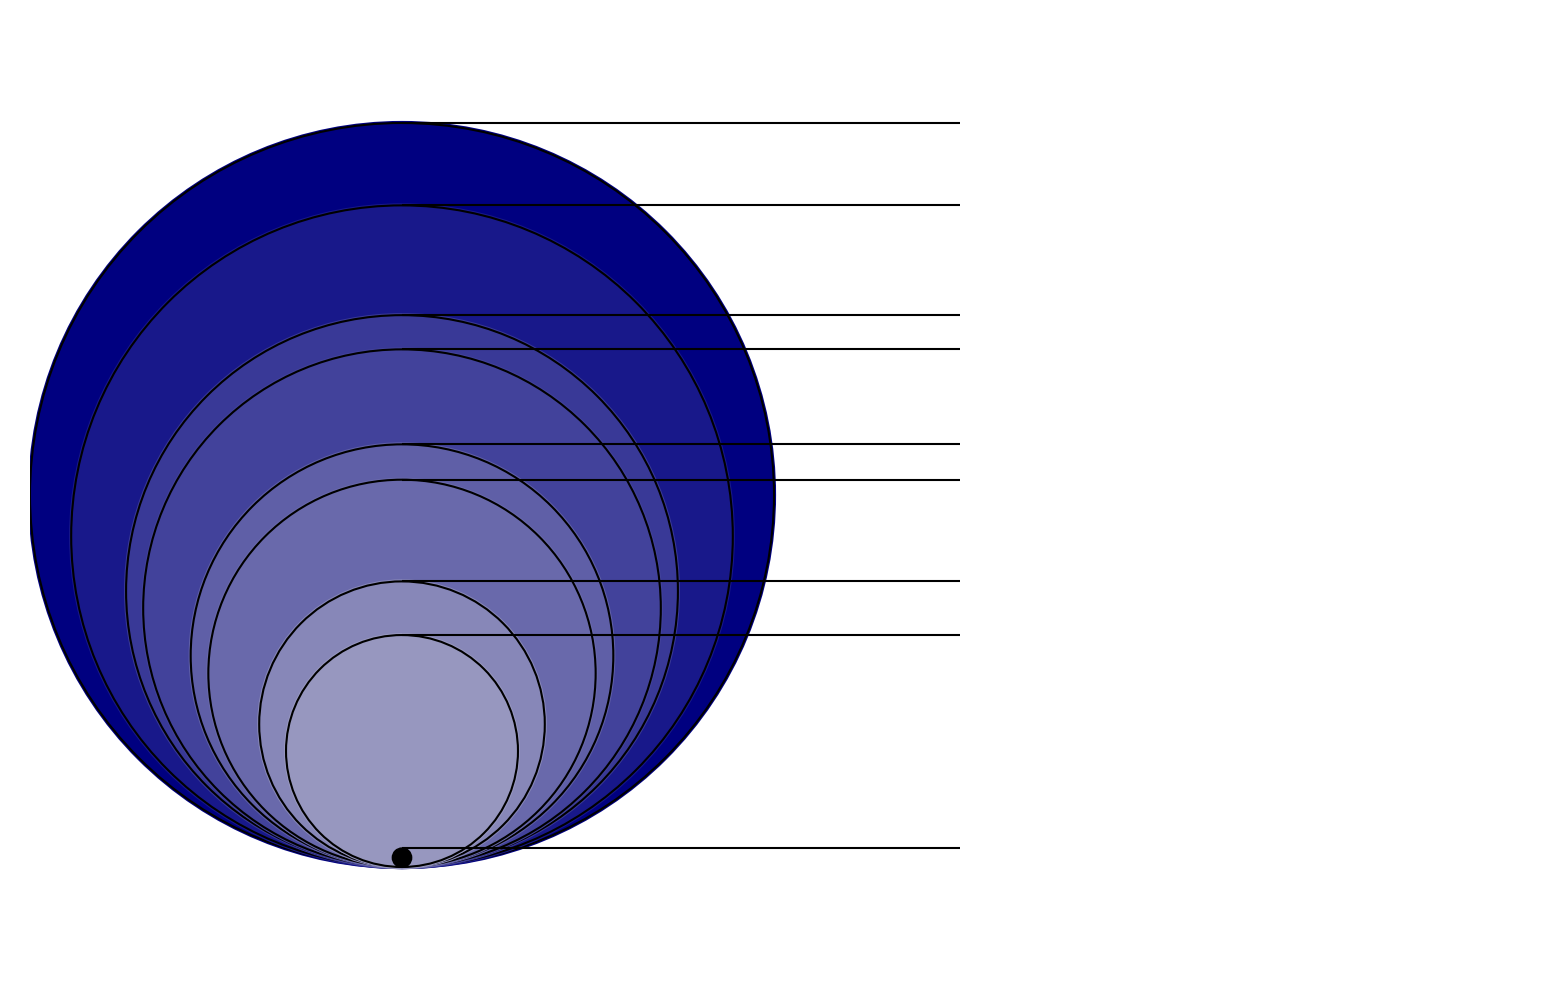
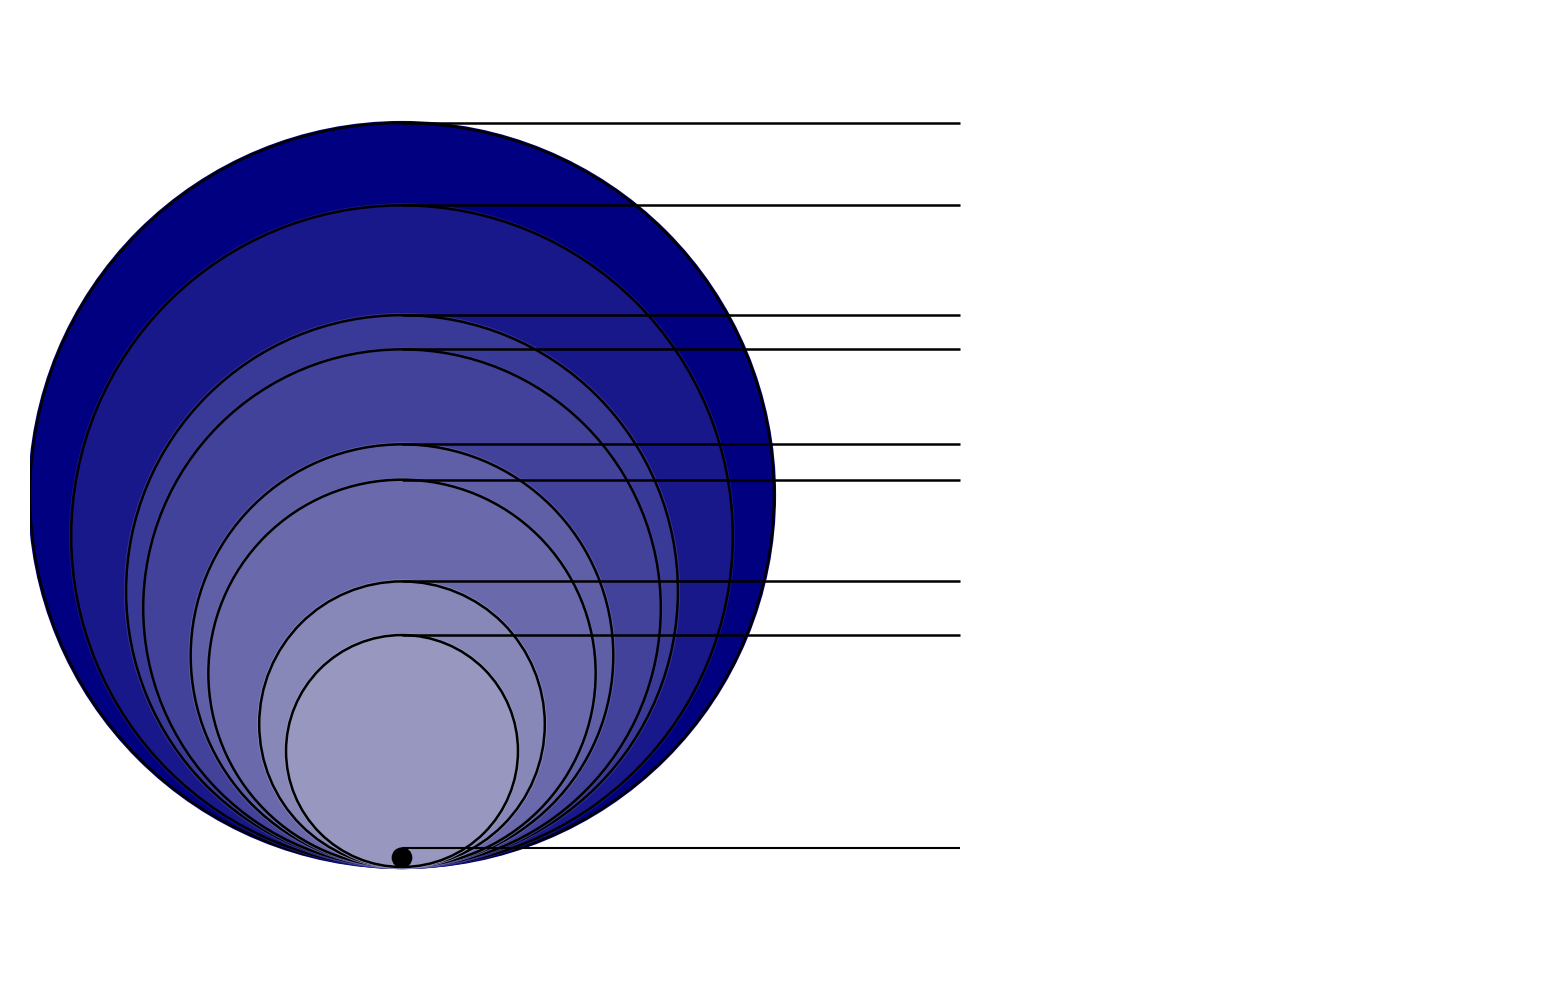
CHK

diff --git a/clamshell_plot.py b/clamshell_plot.py
@@ -60,6 +60,11 @@ def cli () -> argparse.Namespace:
         default=0,
         help="Low counts threshold."
     )
+    parser.add_argument(
+        "-l", "--log",
+        default=None,
+        help="Path to log file. No log is saved if no path is supplied."
+    )
 
     return parser.parse_args()
 
@@ -119,7 +124,8 @@ def clamshell_plot(
     output: str,
     transparent: bool = False,
     color_range: ty.Tuple[Color, Color] = (GREY, BLUE),
-    counts_threshold: int = 0
+    counts_threshold: int = 0,
+    log: str = None
 ) -> None:
     """
     Draw a clamshell plot.
@@ -132,9 +138,13 @@ def clamshell_plot(
     output (str): Path to output file.
     transparent (bool): Whether to make the plot background transparent.
     color_range (ty.Tuple[Color, Color]): Color range.
+    counts_threshold (int): Low counts threshold.
+    log (str): Path to log file.
 
     Note: counts cannot be <0.
     """
+    if log: log_handle = open(log, "w")
+
     fig, axs = plt.subplots()
     axs.set_aspect(1)
     cmap = make_color_map(color_range[0], color_range[1])
@@ -154,6 +164,7 @@ def clamshell_plot(
         ((max(counts)) / nbins) * bin
         for bin in range(1, nbins + 1)
     ][::-1] + [0]
+    if log: log_handle.write(f"Thresholds: {thresholds}\n")
 
     for i in range(len(thresholds) - 1):
         max_bin = thresholds[i]
@@ -175,6 +186,7 @@ def clamshell_plot(
         items = map(lambda x: (x[0], x[1], x[2] * max_surface), items)
         items = map(lambda x: (x[0], x[1], radius_from_surface(x[2])), items)
         items = list(items)
+        if log: log_handle.write(f"Items: {items}\n")
 
         # Draw clamshell plot section.
         if len(items) > 0:
@@ -185,7 +197,7 @@ def clamshell_plot(
                 (0.0, radius), 
                 radius, 
                 color=cmap(radius),
-                fill=True
+                fill=True                
             )
             axs.add_artist(circle)
 
@@ -195,7 +207,7 @@ def clamshell_plot(
                 (0.0, radius), 
                 radius, 
                 fill=False,
-                linewidth=0.5,
+                linewidth=0.6,
                 color="k"
             )
             axs.add_artist(circle)
@@ -205,12 +217,20 @@ def clamshell_plot(
                 y=radius * 2, 
                 xmin=0, 
                 xmax=1.5, 
-                linewidth=0.5, 
+                linewidth=0.6, 
                 color="k"
             )
 
+
     # Draw low counts point at in clamshell plot for filtered out classes. 
     if len(filtered_items) > 0:
+        print(f"Filtered out {len(filtered_items)} classes.")
+        if log: 
+            log_handle.write(
+                f"Filtered out {len(filtered_items)} classes:\n"
+                f"{filtered_items}\n"
+            )
+
         radius = 0.025
 
         # Draw circle.
@@ -237,6 +257,8 @@ def clamshell_plot(
     plt.ylim([-0.25, 2.25])
     plt.savefig(output, bbox_inches="tight", transparent=transparent, dpi=300)
 
+    if log: log_handle.close()
+
 
 def main() -> None:
     """
@@ -250,7 +272,8 @@ def main() -> None:
         nbins=args.nbins,
         output=args.output,
         transparent=args.transparent,
-        counts_threshold=args.counts_threshold
+        counts_threshold=args.counts_threshold,
+        log=args.log,
     )
 
 
